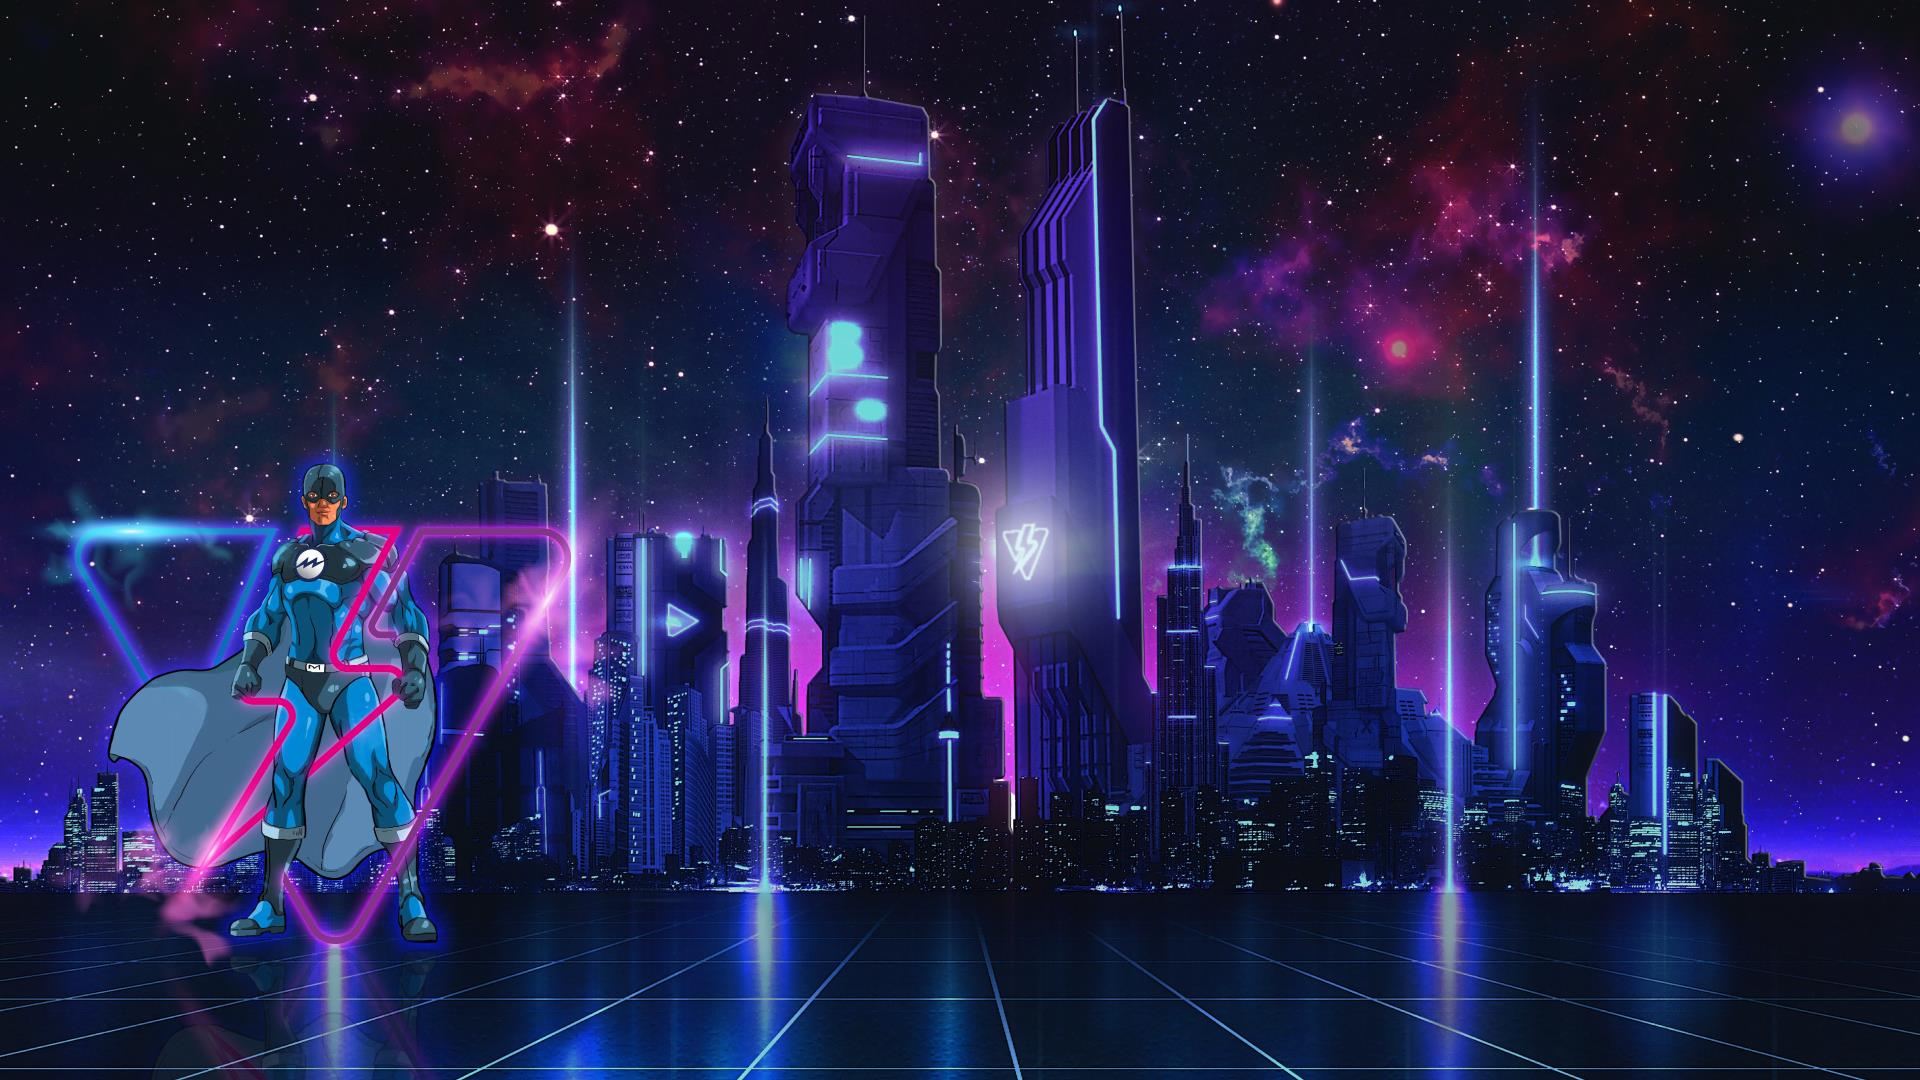
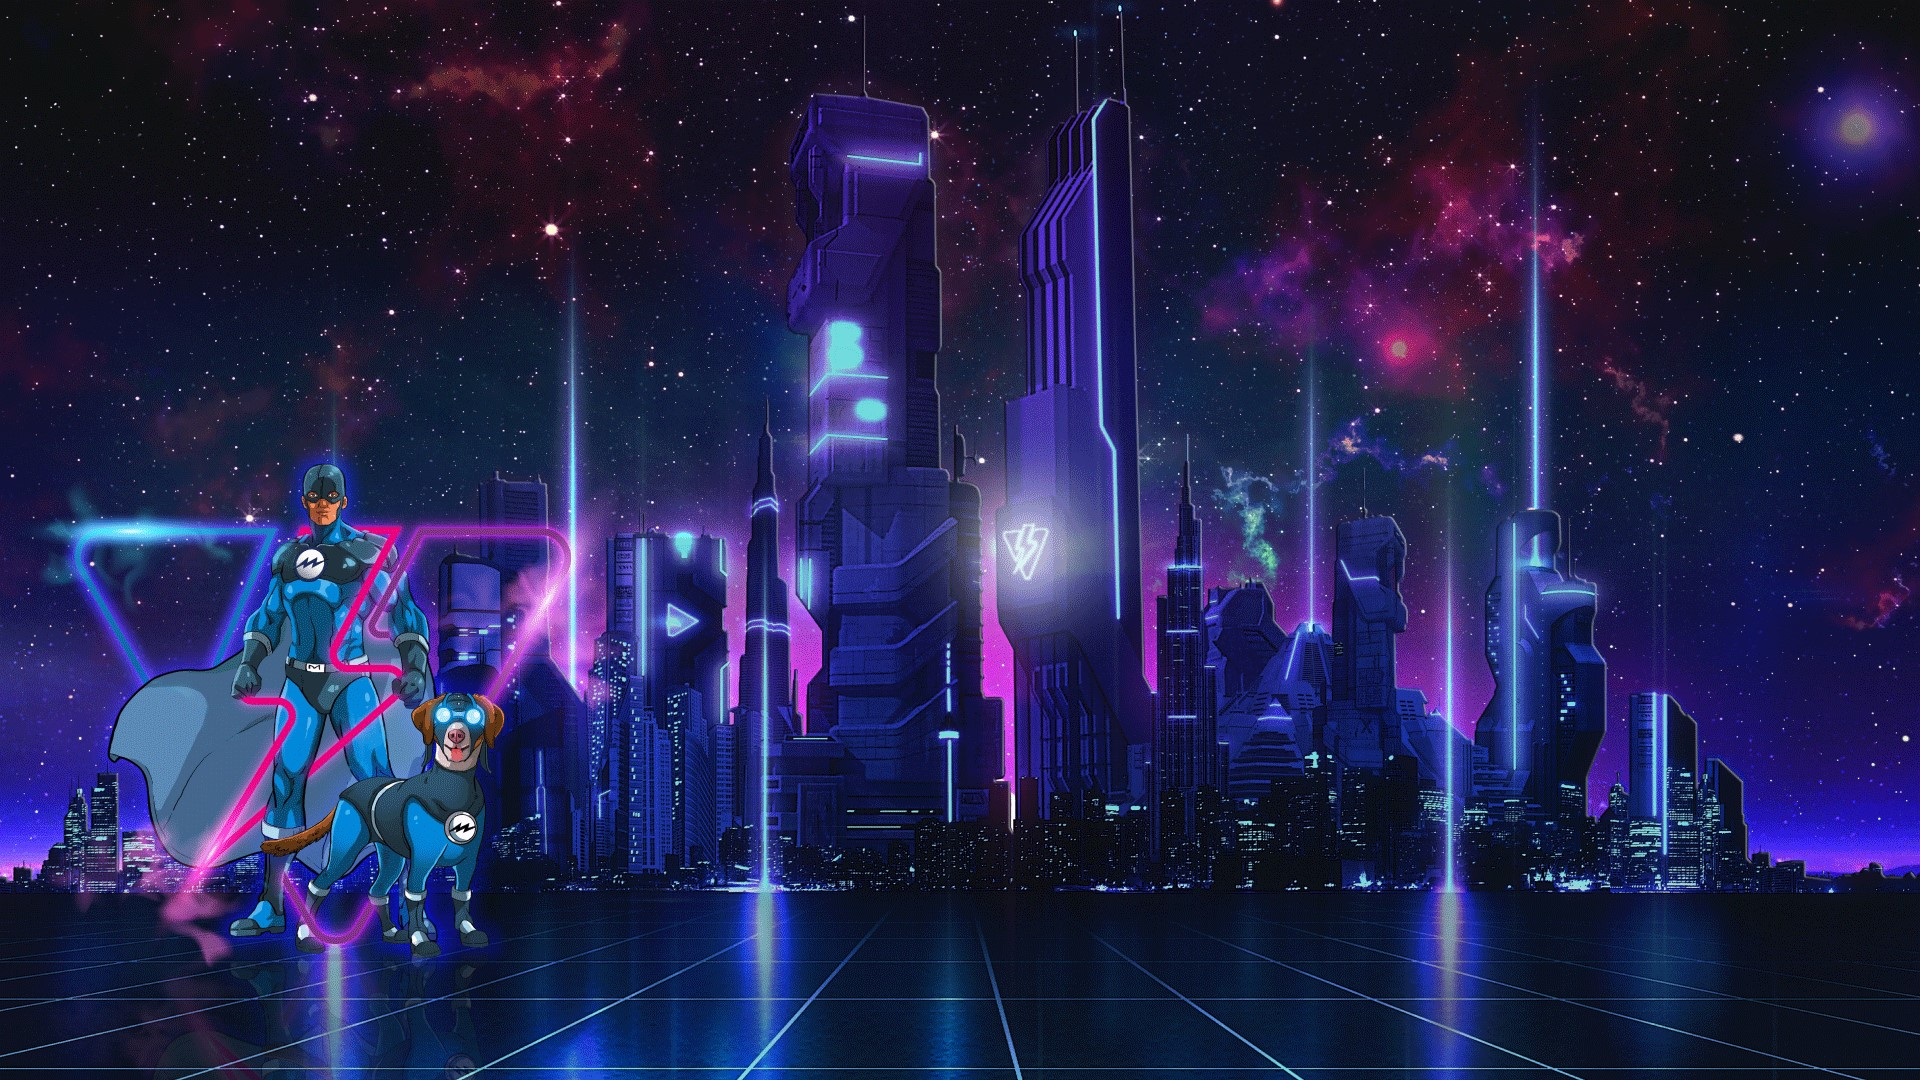
add bridge tab;update bg img

diff --git a/components/navigation/navigation.js b/components/navigation/navigation.js
@@ -162,7 +162,10 @@ function Navigation(props) {
         {renderSubNav("Rewards", "rewards")}
         {/* {renderSubNav("Migrate", "migrate")} */}
         {renderPopSubNav("Resources")}
-        {renderLinkSubNav("NFT")}
+        {renderLinkSubNav("NFT", "https://nft.voltswap.finance")}
+        {supportChain && supportChain.id === '8453' && renderLinkSubNav("Bridge", 
+          "https://passport.meter.io/#/82/8453/0x0000000000000000000000bd2949f67dcdc549c6ebe98696449fa79d988a9f01"
+        )}
       </ToggleButtonGroup>
     );
   };
@@ -255,7 +258,7 @@ function Navigation(props) {
     )
   }
 
-  const renderLinkSubNav = (title) => {
+  const renderLinkSubNav = (title, link) => {
     return (
       <ToggleButton
         className={[
@@ -264,7 +267,7 @@ function Navigation(props) {
         ].join(" ")}
         classes={{ selected: classes[`nav-button--active`] }}
         onClick={(e) => {
-          handleLinkClick(e, 'https://nft.voltswap.finance')
+          handleLinkClick(e, link)
         }}
       >
         <div
@@ -283,10 +286,10 @@ function Navigation(props) {
             <Typography variant="h2" className={classes.subtitleText}>
               <span>{title}</span>
               <svg width="16" height="16" viewBox="0 0 16 16" fill="none" xmlns="http://www.w3.org/2000/svg">
-              <path
+                <path
                   d="M10.6694 6.276L4.93144 12.014L3.98877 11.0713L9.7261 5.33333H4.66944V4H12.0028V11.3333H10.6694V6.276Z"
-                  fill={appTheme === 'dark' ? '#5688A5' : '#5688A5'}/>
-            </svg>
+                  fill={appTheme === 'dark' ? '#5688A5' : '#5688A5'} />
+              </svg>
             </Typography>
           </div>
         </div>
@@ -386,8 +389,8 @@ function Navigation(props) {
 
             <svg width="16" height="16" viewBox="0 0 16 16" fill="none" xmlns="http://www.w3.org/2000/svg">
               <path
-                  d="M10.6694 6.276L4.93144 12.014L3.98877 11.0713L9.7261 5.33333H4.66944V4H12.0028V11.3333H10.6694V6.276Z"
-                  fill={appTheme === 'dark' ? '#5688A5' : '#5688A5'}/>
+                d="M10.6694 6.276L4.93144 12.014L3.98877 11.0713L9.7261 5.33333H4.66944V4H12.0028V11.3333H10.6694V6.276Z"
+                fill={appTheme === 'dark' ? '#5688A5' : '#5688A5'} />
             </svg>
           </div>
 
@@ -411,12 +414,12 @@ function Navigation(props) {
 
             <svg width="16" height="16" viewBox="0 0 16 16" fill="none" xmlns="http://www.w3.org/2000/svg">
               <path
-                  d="M10.6694 6.276L4.93144 12.014L3.98877 11.0713L9.7261 5.33333H4.66944V4H12.0028V11.3333H10.6694V6.276Z"
-                  fill={appTheme === 'dark' ? '#5688A5' : '#5688A5'}/>
+                d="M10.6694 6.276L4.93144 12.014L3.98877 11.0713L9.7261 5.33333H4.66944V4H12.0028V11.3333H10.6694V6.276Z"
+                fill={appTheme === 'dark' ? '#5688A5' : '#5688A5'} />
             </svg>
           </div>
-          { 
-            supportChain && supportChain.id === '82' && 
+          {
+            supportChain && supportChain.id === '82' &&
             <div
               className={[
                 classes.filterItem,
@@ -437,8 +440,8 @@ function Navigation(props) {
 
               <svg width="16" height="16" viewBox="0 0 16 16" fill="none" xmlns="http://www.w3.org/2000/svg">
                 <path
-                    d="M10.6694 6.276L4.93144 12.014L3.98877 11.0713L9.7261 5.33333H4.66944V4H12.0028V11.3333H10.6694V6.276Z"
-                    fill={appTheme === 'dark' ? '#5688A5' : '#5688A5'}/>
+                  d="M10.6694 6.276L4.93144 12.014L3.98877 11.0713L9.7261 5.33333H4.66944V4H12.0028V11.3333H10.6694V6.276Z"
+                  fill={appTheme === 'dark' ? '#5688A5' : '#5688A5'} />
               </svg>
             </div>
           }
@@ -462,8 +465,8 @@ function Navigation(props) {
 
             <svg width="16" height="16" viewBox="0 0 16 16" fill="none" xmlns="http://www.w3.org/2000/svg">
               <path
-                  d="M10.6694 6.276L4.93144 12.014L3.98877 11.0713L9.7261 5.33333H4.66944V4H12.0028V11.3333H10.6694V6.276Z"
-                  fill={appTheme === 'dark' ? '#5688A5' : '#5688A5'}/>
+                d="M10.6694 6.276L4.93144 12.014L3.98877 11.0713L9.7261 5.33333H4.66944V4H12.0028V11.3333H10.6694V6.276Z"
+                fill={appTheme === 'dark' ? '#5688A5' : '#5688A5'} />
             </svg>
           </div>
           <div
@@ -486,8 +489,8 @@ function Navigation(props) {
 
             <svg width="16" height="16" viewBox="0 0 16 16" fill="none" xmlns="http://www.w3.org/2000/svg">
               <path
-                  d="M10.6694 6.276L4.93144 12.014L3.98877 11.0713L9.7261 5.33333H4.66944V4H12.0028V11.3333H10.6694V6.276Z"
-                  fill={appTheme === 'dark' ? '#5688A5' : '#5688A5'}/>
+                d="M10.6694 6.276L4.93144 12.014L3.98877 11.0713L9.7261 5.33333H4.66944V4H12.0028V11.3333H10.6694V6.276Z"
+                fill={appTheme === 'dark' ? '#5688A5' : '#5688A5'} />
             </svg>
           </div>
           <div
@@ -510,8 +513,8 @@ function Navigation(props) {
 
             <svg width="16" height="16" viewBox="0 0 16 16" fill="none" xmlns="http://www.w3.org/2000/svg">
               <path
-                  d="M10.6694 6.276L4.93144 12.014L3.98877 11.0713L9.7261 5.33333H4.66944V4H12.0028V11.3333H10.6694V6.276Z"
-                  fill={appTheme === 'dark' ? '#5688A5' : '#5688A5'}/>
+                d="M10.6694 6.276L4.93144 12.014L3.98877 11.0713L9.7261 5.33333H4.66944V4H12.0028V11.3333H10.6694V6.276Z"
+                fill={appTheme === 'dark' ? '#5688A5' : '#5688A5'} />
             </svg>
           </div>
           <div
@@ -534,8 +537,8 @@ function Navigation(props) {
 
             <svg width="16" height="16" viewBox="0 0 16 16" fill="none" xmlns="http://www.w3.org/2000/svg">
               <path
-                  d="M10.6694 6.276L4.93144 12.014L3.98877 11.0713L9.7261 5.33333H4.66944V4H12.0028V11.3333H10.6694V6.276Z"
-                  fill={appTheme === 'dark' ? '#5688A5' : '#5688A5'}/>
+                d="M10.6694 6.276L4.93144 12.014L3.98877 11.0713L9.7261 5.33333H4.66944V4H12.0028V11.3333H10.6694V6.276Z"
+                fill={appTheme === 'dark' ? '#5688A5' : '#5688A5'} />
             </svg>
           </div>
         </div>
